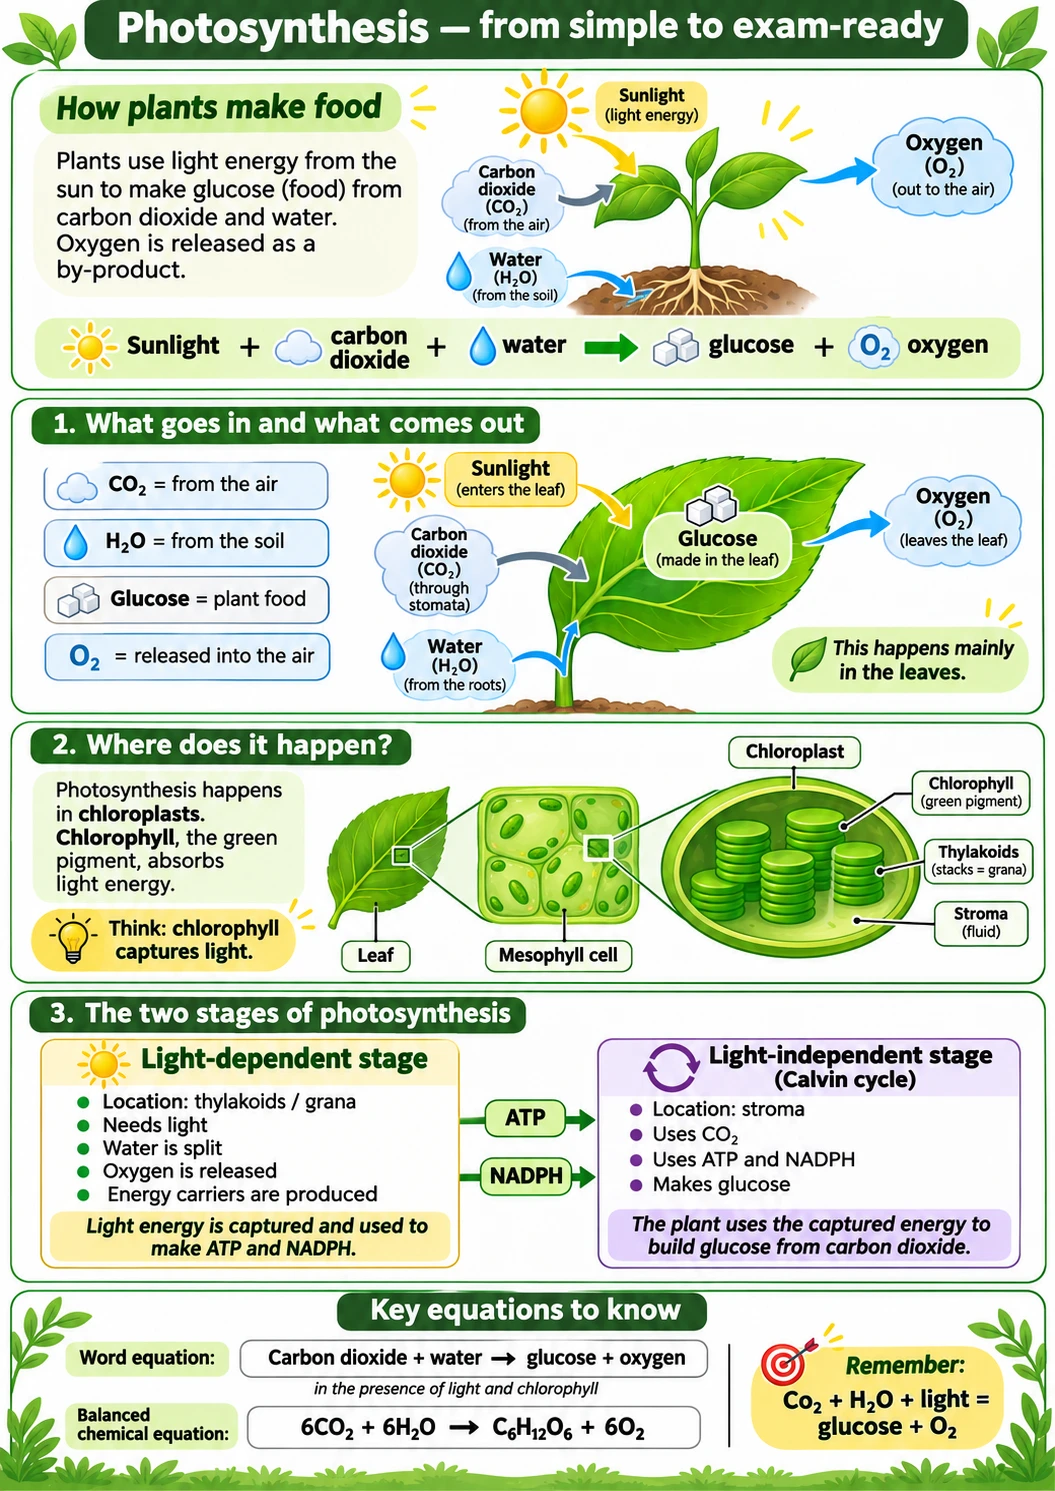
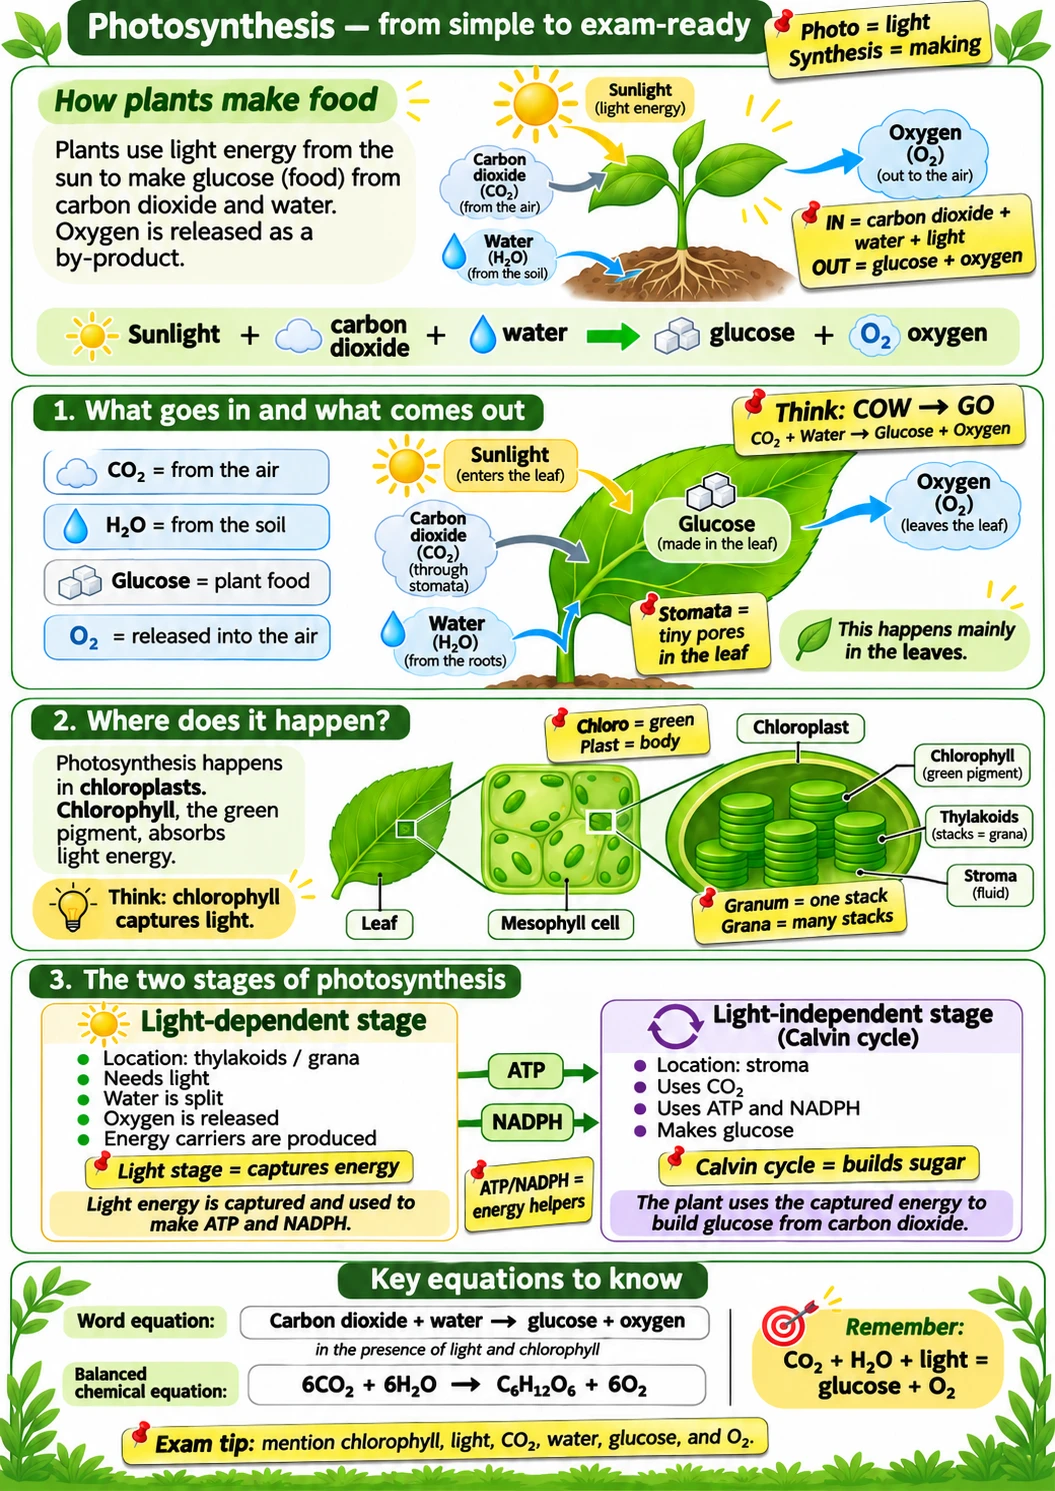
Swap photosynthesis infographic for the version with memory tips

diff --git a/app.py b/app.py
@@ -851,7 +851,7 @@ const SUBJECT_HOMES = {
     banner: { title:'Biology', desc:'Biology revision — microbiology and photosynthesis notes with diagrams, plus past exam papers.' },
     topics: [
       { key:'bio-micro', icon:'🔬', title:'Microbiology', desc:'One-page revision guide built from your micro notes with matched cell diagrams and exam tips.' },
-      { key:'bio-photo', icon:'🌱', title:'Photosynthesis', desc:'From simple to exam-ready: inputs and outputs, chloroplasts, the two stages and the key equations.' },
+      { key:'bio-photo', icon:'🌱', title:'Photosynthesis', desc:'From simple to exam-ready: inputs and outputs, chloroplasts, the two stages, key equations and memory tricks.' },
       { key:'pastpapers', icon:'📄', title:'Past Papers', desc:'Leaving Cert Biology papers (A and B/C sections) from recent years.', isPP:true },
     ]
   },
@@ -1110,7 +1110,7 @@ function renderPhotosynthesis(){
   html += '<a href="' + src + '" target="_blank" rel="noopener">';
   html += '<img src="' + src + '" alt="Photosynthesis infographic: inputs and outputs, where it happens in the chloroplast, the light-dependent and light-independent stages, and the word and balanced chemical equations" />';
   html += '</a>';
-  html += '<div class="bio-media-tag">Key idea: chlorophyll in the chloroplasts captures light energy</div>';
+  html += '<div class="bio-media-tag">Exam tip: mention chlorophyll, light, CO₂, water, glucose and O₂</div>';
   html += '</figure>';
   html += '</div>';
   content.innerHTML = html;
